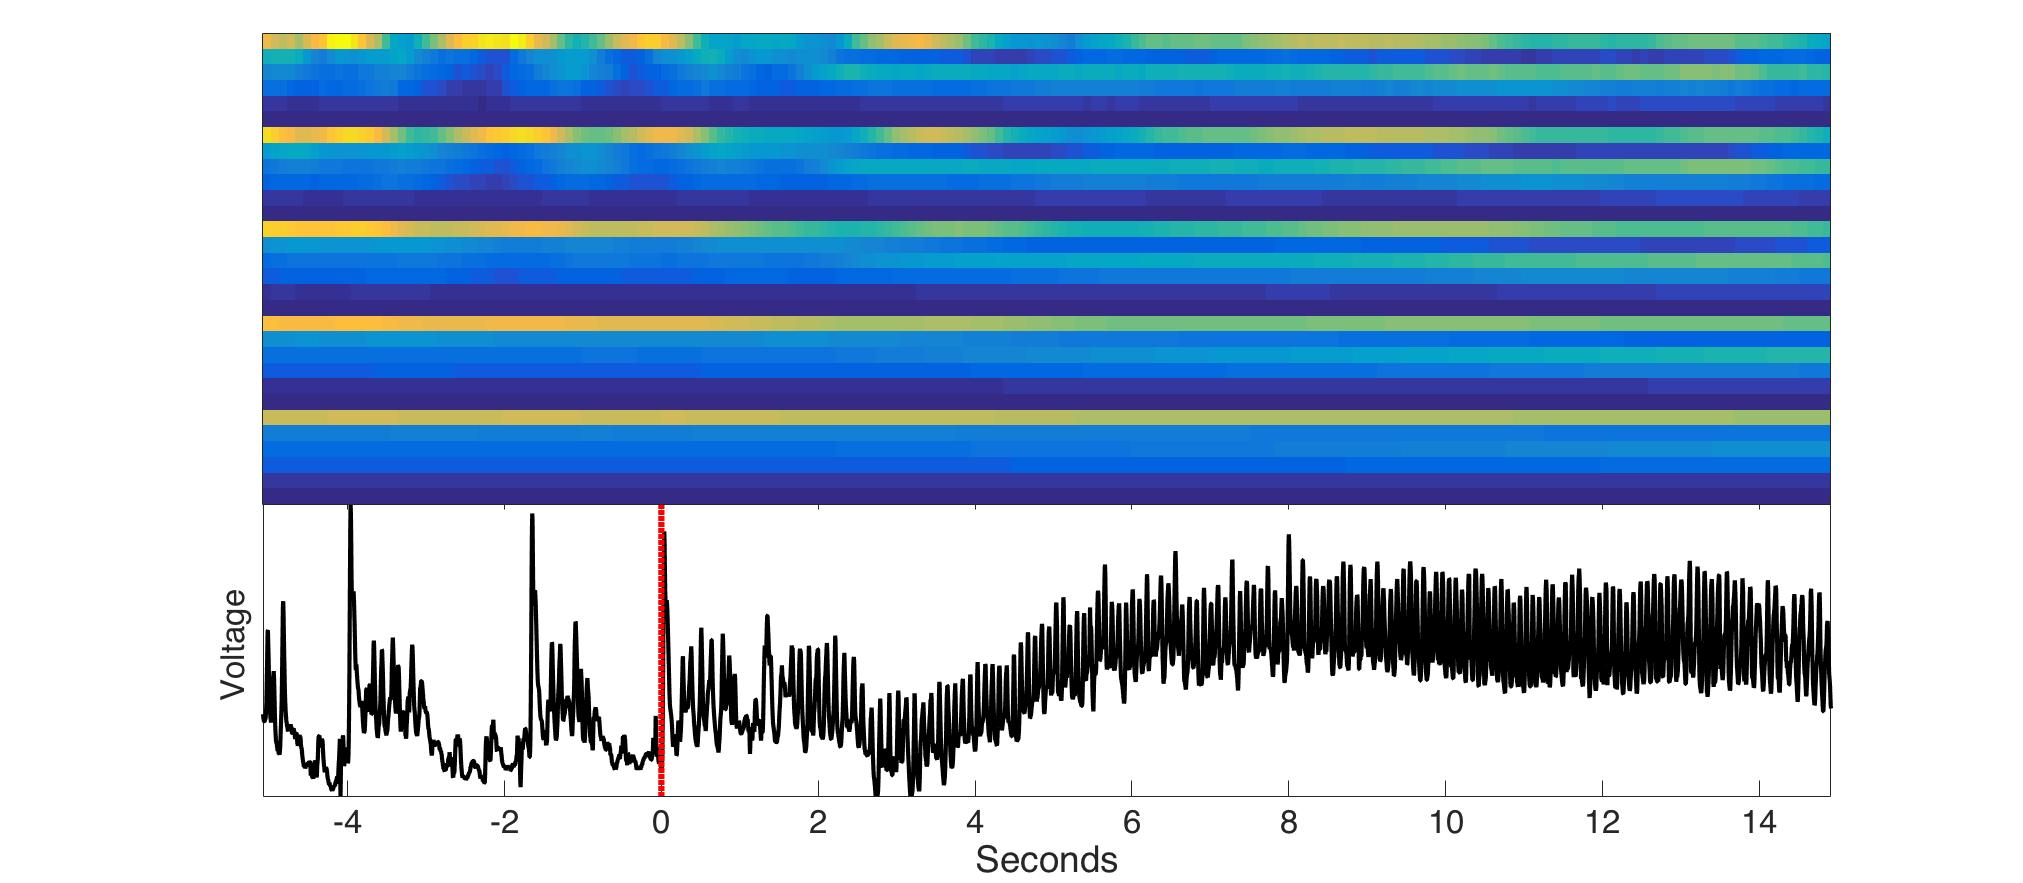
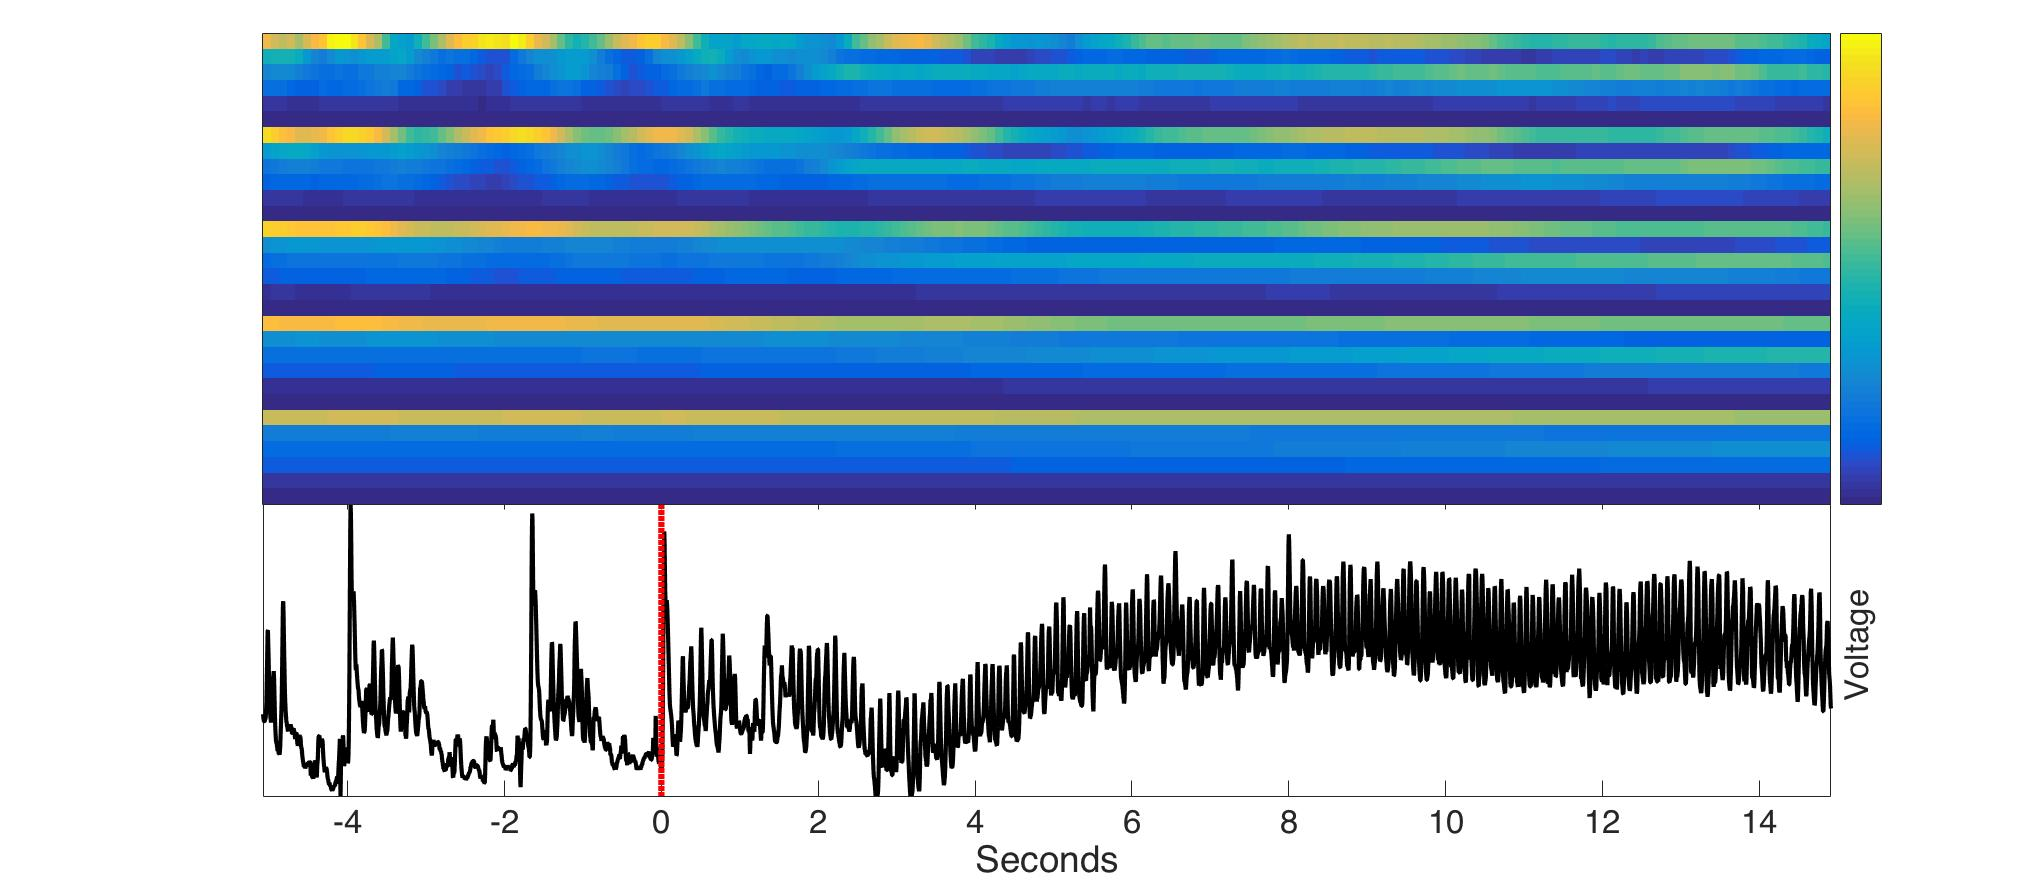
a bit more plotting

Changed region(s): [[0.9031, 0.0306, 0.9343, 0.581], [0.9031, 0.6727, 0.9343, 0.795], [0.0934, 0.6727, 0.1246, 0.795]]

diff --git a/EU_GENERAL/MATLAB/plot_edm_example.m b/EU_GENERAL/MATLAB/plot_edm_example.m
@@ -30,7 +30,7 @@ plot([0, 0],ylim,'r:','linewidth',3);
 % title(ftr_fname);
 ht=ylabel('Voltage');
 set(ht,'fontsize',16);
-set(gca,'ytick',[]);
+set(gca,'ytick',[],'yaxislocation','right');
 h=xlabel('Seconds');
 
 % ax2=subplot(312); 
@@ -41,7 +41,12 @@ ax2_pos=[0.1300 0.43  0.7750  0.533];
 % ax2=subplot(212);
 ax2=axes('position',ax2_pos);
 ftr_tpts=find(se_time_sec<=targ_raw_ieeg_sec(show_tpts(end)));
+mx_ftr=max(max(se_ftrs(:,ftr_tpts)));
+fprintf('Max ftr value shown: %f z\n',mx_ftr);
+min_ftr=min(min(se_ftrs(:,ftr_tpts)));
+fprintf('Min ftr value shown: %f z\n',min_ftr);
 imagesc(se_ftrs(:,ftr_tpts));
+
 %xtick=get(gca,'xtick');
 rel_se_stim_sec=se_time_sec-onset_sec;
 % xtick=[];
@@ -57,9 +62,36 @@ set(gca,'xtick',[],'ytick',[]);
 % end
 % axis tight
 
-% linkaxes([ax1 ax2 ax3],'x');
+% Add colorbar
+pos=[.91 .43 .02 .533];
+limits=[-1, 1];
+cmapName='parula';
+units='';
+nTick=0;
+fontSize=12;
+unitLocation='top';
+hCbar = cbarDGplus(pos,limits,cmapName,nTick,units,unitLocation,fontSize);
+
 
 %%
 set(gcf,'paperpositionmode','auto');
 print(1,'-depsc','edm_example');
 print(1,'-djpeg','edm_example');
+
+
+%% Plot colorbar
+figure(2);
+clf();
+% cbarDG('vert');
+pos=[.1 .1 .1 .7];
+limits=[-1, 1];
+cmapName='parula';
+units='';
+nTick=0;
+fontSize=12;
+unitLocation='top';
+hCbar = cbarDGplus(pos,limits,cmapName,nTick,units,unitLocation,fontSize);
+set(hCbar,'xticklabel',[]);
+set(gcf,'paperpositionmode','auto');
+print(1,'-depsc','pstr_cbar');
+print(1,'-djpeg','pstr_cbar');
